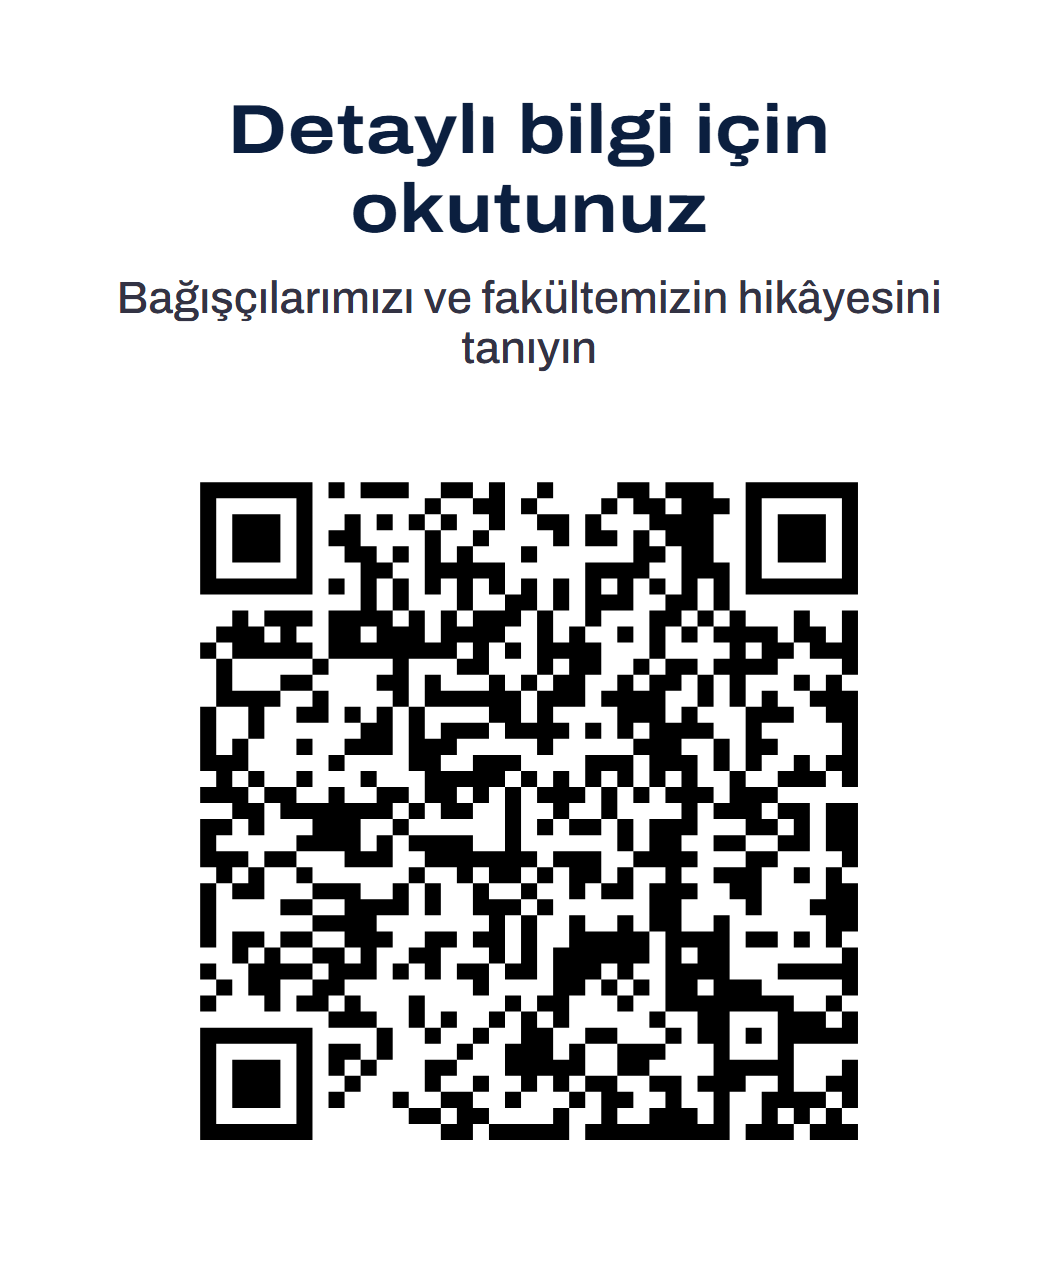
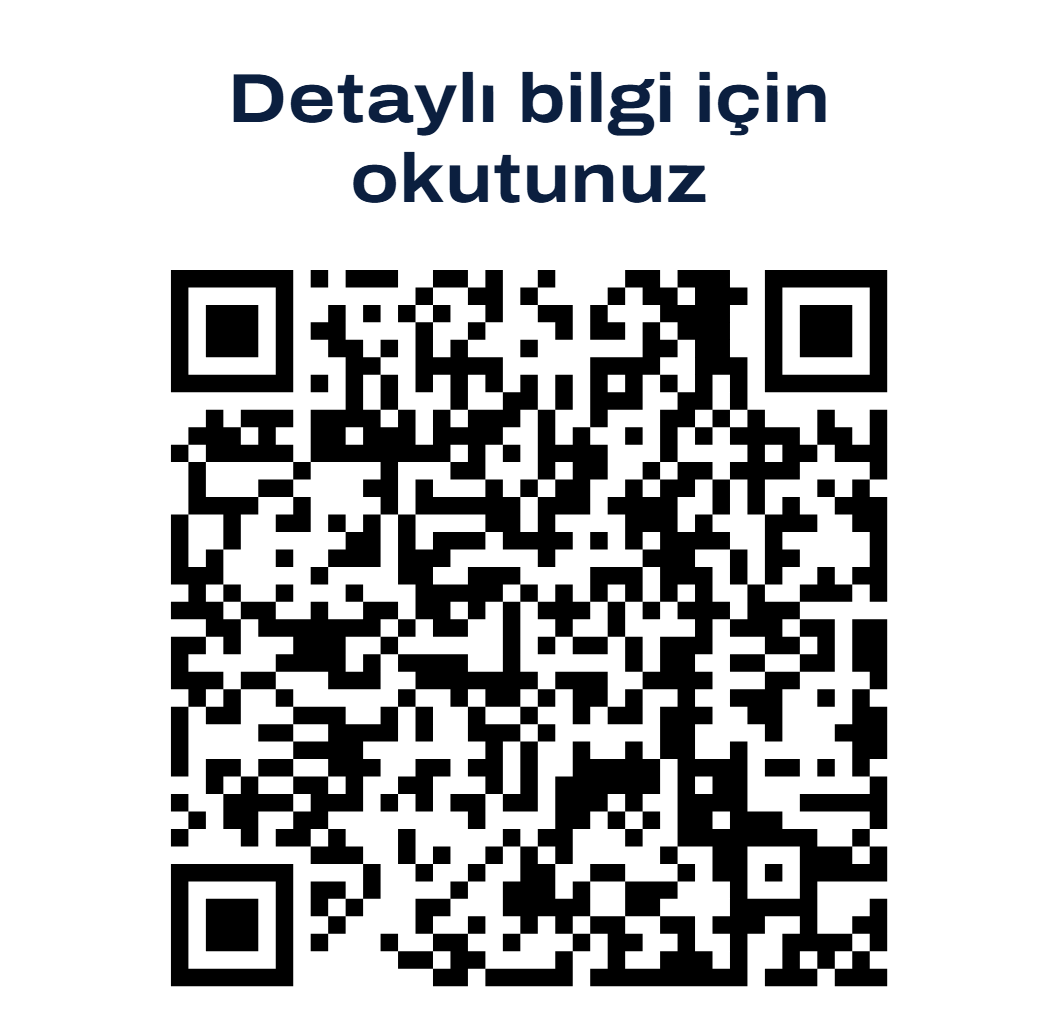
QR etiketi: alt yazı kaldırıldı, QR başlığa yaklaştı

Changed region(s): [[0.0934, 0.0623, 0.9028, 0.965]]

diff --git a/qr-baski/etiket.html b/qr-baski/etiket.html
@@ -1,11 +1,11 @@
 <!doctype html><html lang="tr"><head><meta charset="utf-8"><title>QR etiketi</title><style>
 @font-face{font-family:Archivo;src:url(../assets/fonts/archivo-latin-ext-wdth-normal.woff2) format("woff2");font-weight:100 900;font-stretch:62% 125%;unicode-range:U+0100-02AF,U+0130-0131,U+011E-011F,U+015E-015F}
 @font-face{font-family:Archivo;src:url(../assets/fonts/archivo-latin-wdth-normal.woff2) format("woff2");font-weight:100 900;font-stretch:62% 125%}
-@page{size:70mm 85mm;margin:0}
+@page{size:70mm 68mm;margin:0}
 html,body{margin:0;background:#fff}
-.e{width:70mm;height:85mm;box-sizing:border-box;padding:6mm 6mm 5mm;display:flex;flex-direction:column;align-items:center;font-family:Archivo,sans-serif;color:#0b1f3f}
+.e{width:70mm;height:68mm;box-sizing:border-box;padding:4mm 6mm 2mm;display:flex;flex-direction:column;align-items:center;font-family:Archivo,sans-serif;color:#0b1f3f}
 h1{margin:0;font-size:13pt;font-weight:700;font-stretch:115%;text-align:center;line-height:1.15;letter-spacing:.01em}
 p{margin:1.5mm 0 0;font-size:8.5pt;font-weight:500;text-align:center;color:#334}
-.q{width:52mm;height:52mm;margin-top:3mm}.q svg{width:100%;height:100%;display:block}
-</style></head><body><div class="e"><h1>Detaylı bilgi için okutunuz</h1><p>Bağışçılarımızı ve fakültemizin hikâyesini tanıyın</p><div class="q"><svg xmlns="http://www.w3.org/2000/svg" viewBox="0 0 49 49" class="segno"><path class="qrline" stroke="#000" d="M4 4.5h7m1 0h1m1 0h3m2 0h2m1 0h1m2 0h1m4 0h2m1 0h3m2 0h7m-41 1h1m5 0h1m7 0h1m2 0h2m1 0h1m4 0h1m1 0h2m1 0h3m1 0h1m5 0h1m-41 1h1m1 0h3m1 0h1m2 0h1m1 0h1m1 0h1m1 0h1m2 0h1m2 0h2m1 0h1m3 0h4m2 0h1m1 0h3m1 0h1m-41 1h1m1 0h3m1 0h1m1 0h2m4 0h1m2 0h1m4 0h1m1 0h2m1 0h1m1 0h3m2 0h1m1 0h3m1 0h1m-41 1h1m1 0h3m1 0h1m2 0h2m1 0h1m1 0h1m1 0h1m3 0h1m6 0h2m1 0h2m2 0h1m1 0h3m1 0h1m-41 1h1m5 0h1m3 0h2m2 0h5m5 0h4m2 0h3m1 0h1m5 0h1m-41 1h7m1 0h1m1 0h1m1 0h1m1 0h1m1 0h1m1 0h1m1 0h1m1 0h1m1 0h1m1 0h1m1 0h1m1 0h1m1 0h1m1 0h7m-31 1h1m1 0h1m3 0h1m2 0h2m1 0h1m1 0h3m2 0h2m1 0h1m-31 1h1m1 0h3m1 0h4m1 0h1m1 0h1m1 0h3m1 0h1m2 0h1m3 0h2m1 0h1m1 0h1m3 0h1m2 0h1m-40 1h3m1 0h1m2 0h2m1 0h3m1 0h4m2 0h1m1 0h1m2 0h1m1 0h1m1 0h1m1 0h4m1 0h2m1 0h1m-41 1h1m1 0h5m1 0h8m1 0h1m1 0h1m1 0h4m3 0h1m4 0h1m1 0h2m1 0h3m-40 1h1m5 0h1m4 0h1m3 0h2m3 0h1m1 0h2m2 0h1m1 0h2m1 0h4m4 0h1m-40 1h1m3 0h2m4 0h2m1 0h1m3 0h1m1 0h1m1 0h2m2 0h1m1 0h2m1 0h1m1 0h1m3 0h1m1 0h1m-39 1h4m2 0h1m4 0h1m1 0h6m1 0h3m1 0h4m2 0h1m1 0h1m1 0h1m2 0h3m-41 1h1m2 0h1m2 0h2m1 0h1m1 0h1m1 0h1m4 0h2m1 0h1m4 0h3m1 0h1m3 0h3m2 0h2m-41 1h1m2 0h1m6 0h2m1 0h1m1 0h3m1 0h4m1 0h1m1 0h1m1 0h4m2 0h1m5 0h1m-41 1h1m1 0h1m3 0h1m2 0h3m1 0h3m5 0h1m5 0h3m2 0h1m1 0h2m4 0h1m-41 1h3m5 0h1m4 0h2m2 0h3m4 0h3m1 0h3m1 0h1m1 0h1m2 0h1m1 0h2m-40 1h1m1 0h1m2 0h1m3 0h1m3 0h5m1 0h1m1 0h1m1 0h1m1 0h1m1 0h1m1 0h1m2 0h1m2 0h3m1 0h1m-41 1h3m1 0h2m2 0h1m2 0h2m1 0h2m1 0h1m1 0h1m1 0h3m1 0h1m1 0h1m1 0h3m1 0h3m-34 1h2m1 0h7m1 0h1m1 0h2m2 0h1m2 0h1m2 0h1m4 0h1m1 0h3m1 0h2m1 0h2m-41 1h2m1 0h1m3 0h3m2 0h1m6 0h1m1 0h1m1 0h2m1 0h1m1 0h3m3 0h2m1 0h1m1 0h2m-41 1h1m5 0h4m1 0h1m1 0h4m2 0h1m6 0h1m1 0h2m2 0h2m2 0h2m1 0h2m-41 1h3m1 0h2m3 0h3m2 0h7m1 0h3m2 0h4m3 0h2m4 0h1m-40 1h1m1 0h1m2 0h1m6 0h1m2 0h1m1 0h2m1 0h1m1 0h2m1 0h1m2 0h1m2 0h3m2 0h1m1 0h1m-40 1h1m1 0h2m3 0h3m2 0h1m1 0h1m2 0h1m2 0h1m2 0h1m1 0h2m1 0h3m2 0h2m4 0h2m-41 1h1m4 0h2m2 0h4m1 0h1m2 0h3m1 0h1m6 0h2m4 0h1m3 0h3m-41 1h1m6 0h4m7 0h1m1 0h1m2 0h1m2 0h1m1 0h2m2 0h1m6 0h2m-41 1h1m1 0h2m1 0h2m2 0h3m2 0h2m1 0h2m1 0h1m2 0h5m1 0h4m1 0h2m1 0h1m1 0h1m-38 1h1m1 0h1m2 0h2m1 0h1m2 0h2m3 0h1m1 0h1m1 0h6m1 0h1m1 0h2m7 0h1m-41 1h1m2 0h4m1 0h3m1 0h1m1 0h1m1 0h2m1 0h2m1 0h3m1 0h1m2 0h4m3 0h5m-40 1h1m1 0h2m2 0h2m8 0h1m4 0h2m1 0h1m1 0h1m1 0h2m1 0h3m5 0h1m-41 1h1m3 0h1m1 0h2m1 0h1m3 0h1m5 0h1m1 0h2m3 0h1m2 0h8m2 0h1m-32 1h3m2 0h1m1 0h1m2 0h1m1 0h1m1 0h1m5 0h1m2 0h2m3 0h3m1 0h1m-41 1h7m4 0h1m2 0h1m2 0h1m2 0h2m2 0h2m3 0h1m1 0h2m1 0h1m1 0h5m-41 1h1m5 0h1m1 0h2m1 0h1m4 0h1m2 0h3m1 0h1m2 0h3m3 0h1m3 0h1m-37 1h1m1 0h3m1 0h1m1 0h1m1 0h1m3 0h2m3 0h5m2 0h2m4 0h5m3 0h1m-41 1h1m1 0h3m1 0h1m2 0h1m4 0h1m2 0h1m2 0h1m1 0h1m1 0h2m2 0h2m1 0h3m2 0h1m2 0h2m-41 1h1m1 0h3m1 0h1m1 0h1m3 0h1m2 0h2m2 0h1m3 0h1m1 0h2m2 0h1m2 0h1m2 0h4m1 0h1m-41 1h1m5 0h1m6 0h2m1 0h2m4 0h1m2 0h1m2 0h3m1 0h1m2 0h1m1 0h1m1 0h1m-40 1h7m8 0h2m1 0h5m1 0h9m1 0h3m1 0h3"/></svg>
+.q{width:52mm;height:52mm;margin-top:1mm}.q svg{width:100%;height:100%;display:block}
+</style></head><body><div class="e"><h1>Detaylı bilgi için okutunuz</h1><div class="q"><svg xmlns="http://www.w3.org/2000/svg" viewBox="0 0 45 45" class="segno"><path class="qrline" stroke="#000" d="M2 2.5h7m1 0h1m1 0h3m2 0h2m1 0h1m2 0h1m4 0h2m1 0h3m2 0h7m-41 1h1m5 0h1m7 0h1m2 0h2m1 0h1m4 0h1m1 0h2m1 0h3m1 0h1m5 0h1m-41 1h1m1 0h3m1 0h1m2 0h1m1 0h1m1 0h1m1 0h1m2 0h1m2 0h2m1 0h1m3 0h4m2 0h1m1 0h3m1 0h1m-41 1h1m1 0h3m1 0h1m1 0h2m4 0h1m2 0h1m4 0h1m1 0h2m1 0h1m1 0h3m2 0h1m1 0h3m1 0h1m-41 1h1m1 0h3m1 0h1m2 0h2m1 0h1m1 0h1m1 0h1m3 0h1m6 0h2m1 0h2m2 0h1m1 0h3m1 0h1m-41 1h1m5 0h1m3 0h2m2 0h5m5 0h4m2 0h3m1 0h1m5 0h1m-41 1h7m1 0h1m1 0h1m1 0h1m1 0h1m1 0h1m1 0h1m1 0h1m1 0h1m1 0h1m1 0h1m1 0h1m1 0h1m1 0h1m1 0h7m-31 1h1m1 0h1m3 0h1m2 0h2m1 0h1m1 0h3m2 0h2m1 0h1m-31 1h1m1 0h3m1 0h4m1 0h1m1 0h1m1 0h3m1 0h1m2 0h1m3 0h2m1 0h1m1 0h1m3 0h1m2 0h1m-40 1h3m1 0h1m2 0h2m1 0h3m1 0h4m2 0h1m1 0h1m2 0h1m1 0h1m1 0h1m1 0h4m1 0h2m1 0h1m-41 1h1m1 0h5m1 0h8m1 0h1m1 0h1m1 0h4m3 0h1m4 0h1m1 0h2m1 0h3m-40 1h1m5 0h1m4 0h1m3 0h2m3 0h1m1 0h2m2 0h1m1 0h2m1 0h4m4 0h1m-40 1h1m3 0h2m4 0h2m1 0h1m3 0h1m1 0h1m1 0h2m2 0h1m1 0h2m1 0h1m1 0h1m3 0h1m1 0h1m-39 1h4m2 0h1m4 0h1m1 0h6m1 0h3m1 0h4m2 0h1m1 0h1m1 0h1m2 0h3m-41 1h1m2 0h1m2 0h2m1 0h1m1 0h1m1 0h1m4 0h2m1 0h1m4 0h3m1 0h1m3 0h3m2 0h2m-41 1h1m2 0h1m6 0h2m1 0h1m1 0h3m1 0h4m1 0h1m1 0h1m1 0h4m2 0h1m5 0h1m-41 1h1m1 0h1m3 0h1m2 0h3m1 0h3m5 0h1m5 0h3m2 0h1m1 0h2m4 0h1m-41 1h3m5 0h1m4 0h2m2 0h3m4 0h3m1 0h3m1 0h1m1 0h1m2 0h1m1 0h2m-40 1h1m1 0h1m2 0h1m3 0h1m3 0h5m1 0h1m1 0h1m1 0h1m1 0h1m1 0h1m1 0h1m2 0h1m2 0h3m1 0h1m-41 1h3m1 0h2m2 0h1m2 0h2m1 0h2m1 0h1m1 0h1m1 0h3m1 0h1m1 0h1m1 0h3m1 0h3m-34 1h2m1 0h7m1 0h1m1 0h2m2 0h1m2 0h1m2 0h1m4 0h1m1 0h3m1 0h2m1 0h2m-41 1h2m1 0h1m3 0h3m2 0h1m6 0h1m1 0h1m1 0h2m1 0h1m1 0h3m3 0h2m1 0h1m1 0h2m-41 1h1m5 0h4m1 0h1m1 0h4m2 0h1m6 0h1m1 0h2m2 0h2m2 0h2m1 0h2m-41 1h3m1 0h2m3 0h3m2 0h7m1 0h3m2 0h4m3 0h2m4 0h1m-40 1h1m1 0h1m2 0h1m6 0h1m2 0h1m1 0h2m1 0h1m1 0h2m1 0h1m2 0h1m2 0h3m2 0h1m1 0h1m-40 1h1m1 0h2m3 0h3m2 0h1m1 0h1m2 0h1m2 0h1m2 0h1m1 0h2m1 0h3m2 0h2m4 0h2m-41 1h1m4 0h2m2 0h4m1 0h1m2 0h3m1 0h1m6 0h2m4 0h1m3 0h3m-41 1h1m6 0h4m7 0h1m1 0h1m2 0h1m2 0h1m1 0h2m2 0h1m6 0h2m-41 1h1m1 0h2m1 0h2m2 0h3m2 0h2m1 0h2m1 0h1m2 0h5m1 0h4m1 0h2m1 0h1m1 0h1m-38 1h1m1 0h1m2 0h2m1 0h1m2 0h2m3 0h1m1 0h1m1 0h6m1 0h1m1 0h2m7 0h1m-41 1h1m2 0h4m1 0h3m1 0h1m1 0h1m1 0h2m1 0h2m1 0h3m1 0h1m2 0h4m3 0h5m-40 1h1m1 0h2m2 0h2m8 0h1m4 0h2m1 0h1m1 0h1m1 0h2m1 0h3m5 0h1m-41 1h1m3 0h1m1 0h2m1 0h1m3 0h1m5 0h1m1 0h2m3 0h1m2 0h8m2 0h1m-32 1h3m2 0h1m1 0h1m2 0h1m1 0h1m1 0h1m5 0h1m2 0h2m3 0h3m1 0h1m-41 1h7m4 0h1m2 0h1m2 0h1m2 0h2m2 0h2m3 0h1m1 0h2m1 0h1m1 0h5m-41 1h1m5 0h1m1 0h2m1 0h1m4 0h1m2 0h3m1 0h1m2 0h3m3 0h1m3 0h1m-37 1h1m1 0h3m1 0h1m1 0h1m1 0h1m3 0h2m3 0h5m2 0h2m4 0h5m3 0h1m-41 1h1m1 0h3m1 0h1m2 0h1m4 0h1m2 0h1m2 0h1m1 0h1m1 0h2m2 0h2m1 0h3m2 0h1m2 0h2m-41 1h1m1 0h3m1 0h1m1 0h1m3 0h1m2 0h2m2 0h1m3 0h1m1 0h2m2 0h1m2 0h1m2 0h4m1 0h1m-41 1h1m5 0h1m6 0h2m1 0h2m4 0h1m2 0h1m2 0h3m1 0h1m2 0h1m1 0h1m1 0h1m-40 1h7m8 0h2m1 0h5m1 0h9m1 0h3m1 0h3"/></svg>
 </div></div></body></html>
